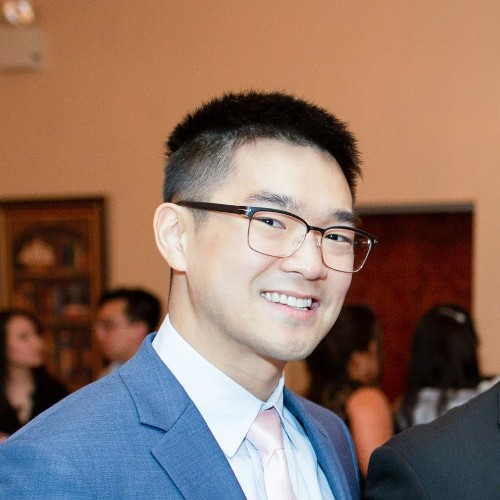
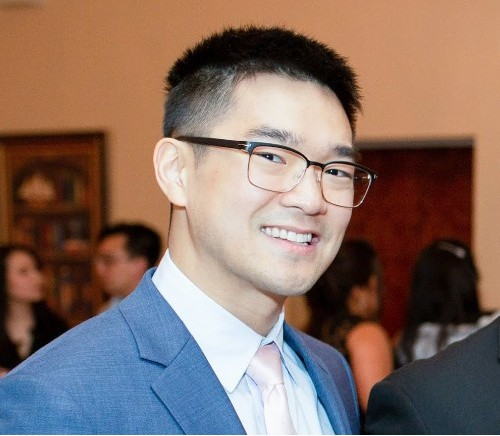
Disable store

diff --git a/src/components/Navigation.tsx b/src/components/Navigation.tsx
@@ -91,16 +91,23 @@ const Navigation = () => {
                             <div className="absolute top-full left-0 mt-2 w-64 bg-white rounded-lg shadow-lg border border-gray-200 opacity-0 invisible group-hover:opacity-100 group-hover:visible transition-all duration-200 z-50">
                                 <div className="py-2">
                                     {studentResources.map((resource) => (
-                                        <a
+                                        // <a
+                                        //     key={resource.name}
+                                        //     href={resource.href}
+                                        //     target="_blank"
+                                        //     rel="noopener noreferrer"
+                                        //     className="block px-4 py-3 text-sm text-gray-700 hover:bg-gray-50 hover:text-primary transition-colors duration-200"
+                                        // >
+                                        //     <div className="font-medium">{resource.name}</div>
+                                        //     <div className="text-xs text-gray-500">{resource.description}</div>
+                                        // </a>
+                                        <span
                                             key={resource.name}
-                                            href={resource.href}
-                                            target="_blank"
-                                            rel="noopener noreferrer"
-                                            className="block px-4 py-3 text-sm text-gray-700 hover:bg-gray-50 hover:text-primary transition-colors duration-200"
+                                            className="block px-4 py-3 text-sm text-gray-700 cursor-not-allowed opacity-50"
                                         >
                                             <div className="font-medium">{resource.name}</div>
                                             <div className="text-xs text-gray-500">{resource.description}</div>
-                                        </a>
+                                        </span>
                                     ))}
                                 </div>
                             </div>

diff --git a/src/components/Footer.tsx b/src/components/Footer.tsx
@@ -114,13 +114,18 @@ const Footer = () => {
             <ul className="space-y-2 mb-6">
               {footerLinks.resources.map((link) => (
                 <li key={link.name}>
-                  <Link
+                  {/* <Link
                     href={link.href}
                     className="text-gray-300 hover:text-primary transition-colors duration-200"
                     target={link.target || '_self'}
                   >
                     {link.name}
-                  </Link>
+                  </Link> */}
+                  <span
+                    className="text-gray-300 cursor-not-allowed opacity-50"
+                  >
+                    {link.name}
+                  </span>
                 </li>
               ))}
             </ul>

diff --git a/src/components/CoachCard.tsx b/src/components/CoachCard.tsx
@@ -9,6 +9,7 @@ import Image, { StaticImageData } from 'next/image';
 
 import stephon from '../../public/images/coaches/stephon.jpg'
 import danny from '../../public/images/coaches/danny.jpg'
+import debbie from '../../public/images/coaches/deborah-yang.jpg'
 import coachstephon from '../../public/images/coaches/coachstephon.jpg'
 import coachdanny from '../../public/images/coaches/coachdanny.jpg'
 
@@ -31,6 +32,7 @@ const IMAGE_MAP: Record<string, StaticImageData> = {
   '/images/coaches/danny.jpg': danny,
   '/images/coaches/coachstephon.jpg': coachstephon,
   '/images/coaches/coachdanny.jpg': coachdanny,
+  '/images/coaches/deborah-yang.jpg': debbie,
 }
 
 const CoachCard = ({ coach }: CoachCardProps) => {
